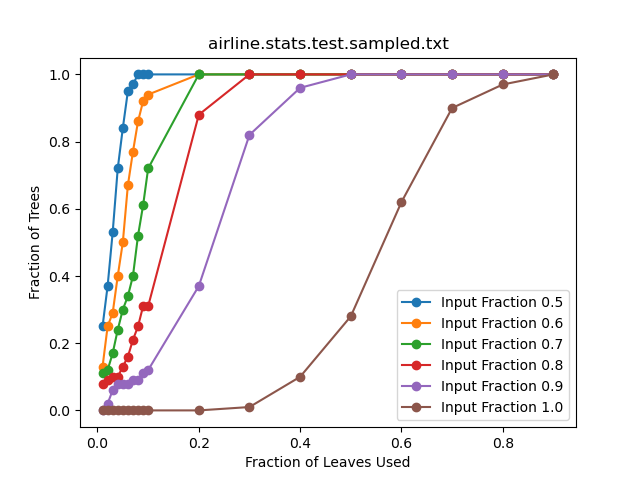
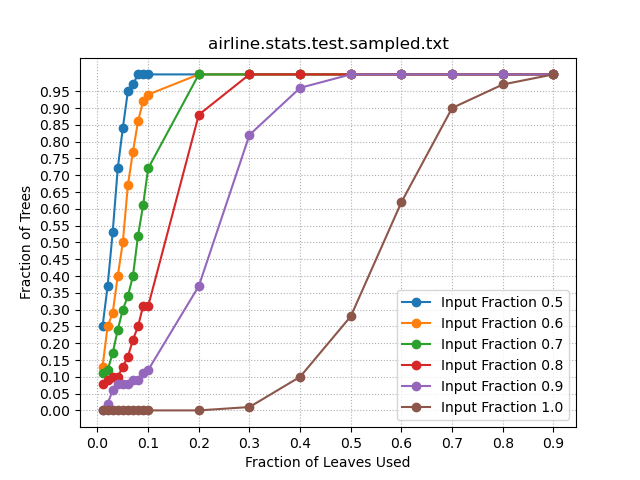
Add grid lines to the plots

diff --git a/results/python/plot_inference_stats.py b/results/python/plot_inference_stats.py
@@ -2,6 +2,7 @@ import sys
 import os
 import matplotlib.pyplot as plt
 import math
+import numpy
 
 stats_file = sys.argv[1]
 print("Analyzing file ", stats_file)
@@ -48,6 +49,11 @@ def ComputeSingleCurve(input_fraction : float) -> list[float]:
     tree_fractions.append(ComputeSinglePoint(input_fraction, leaf_fraction))
   return tree_fractions, leaf_fractions
 
+fig = plt.figure()
+ax = fig.gca()
+ax.set_xticks(numpy.arange(0, 1, 0.1), rotation='vertical')
+ax.set_yticks(numpy.arange(0, 1., 0.05))
+
 input_fractions = [0.5, 0.6, 0.7, 0.8, 0.9, 1.0]
 for input_fraction in input_fractions:
   tree_fractions, leaf_fractions = ComputeSingleCurve(input_fraction)
@@ -57,4 +63,5 @@ plt.xlabel("Fraction of Leaves Used")
 plt.ylabel("Fraction of Trees")
 plt.title(os.path.basename(stats_file))
 plt.legend()
+plt.grid(linestyle="dotted")
 plt.savefig(stats_file + ".png")
